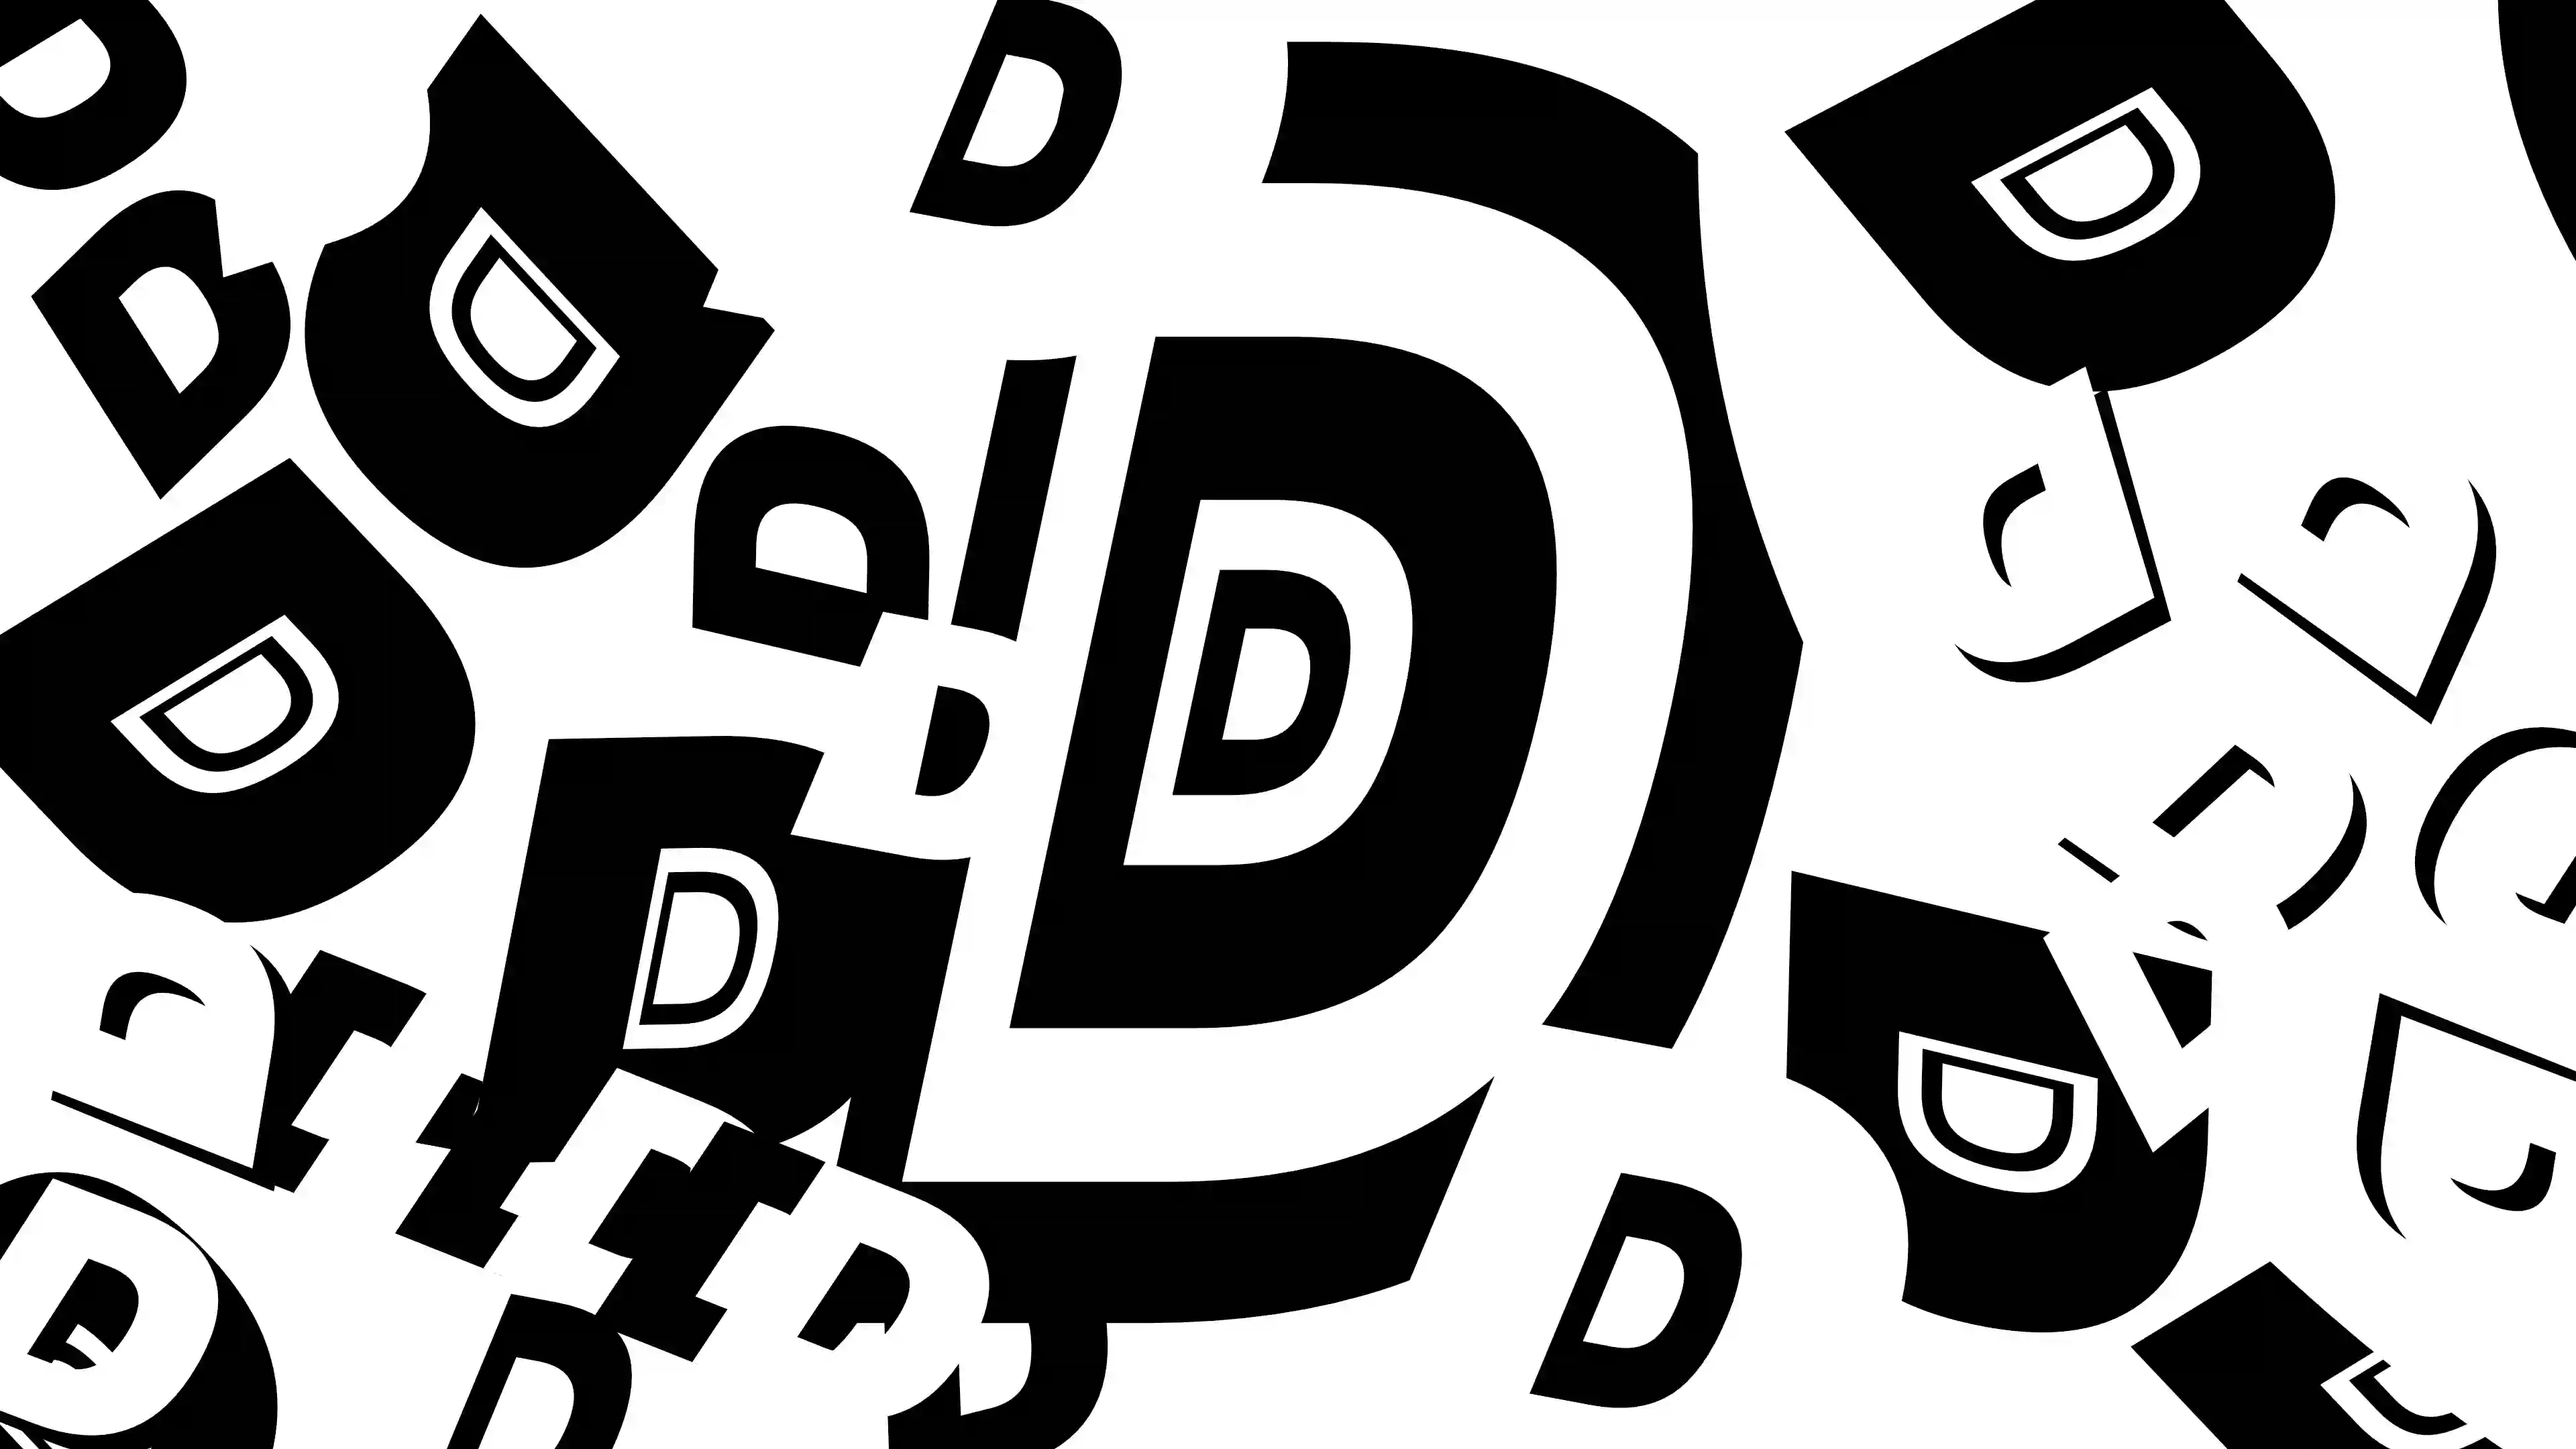
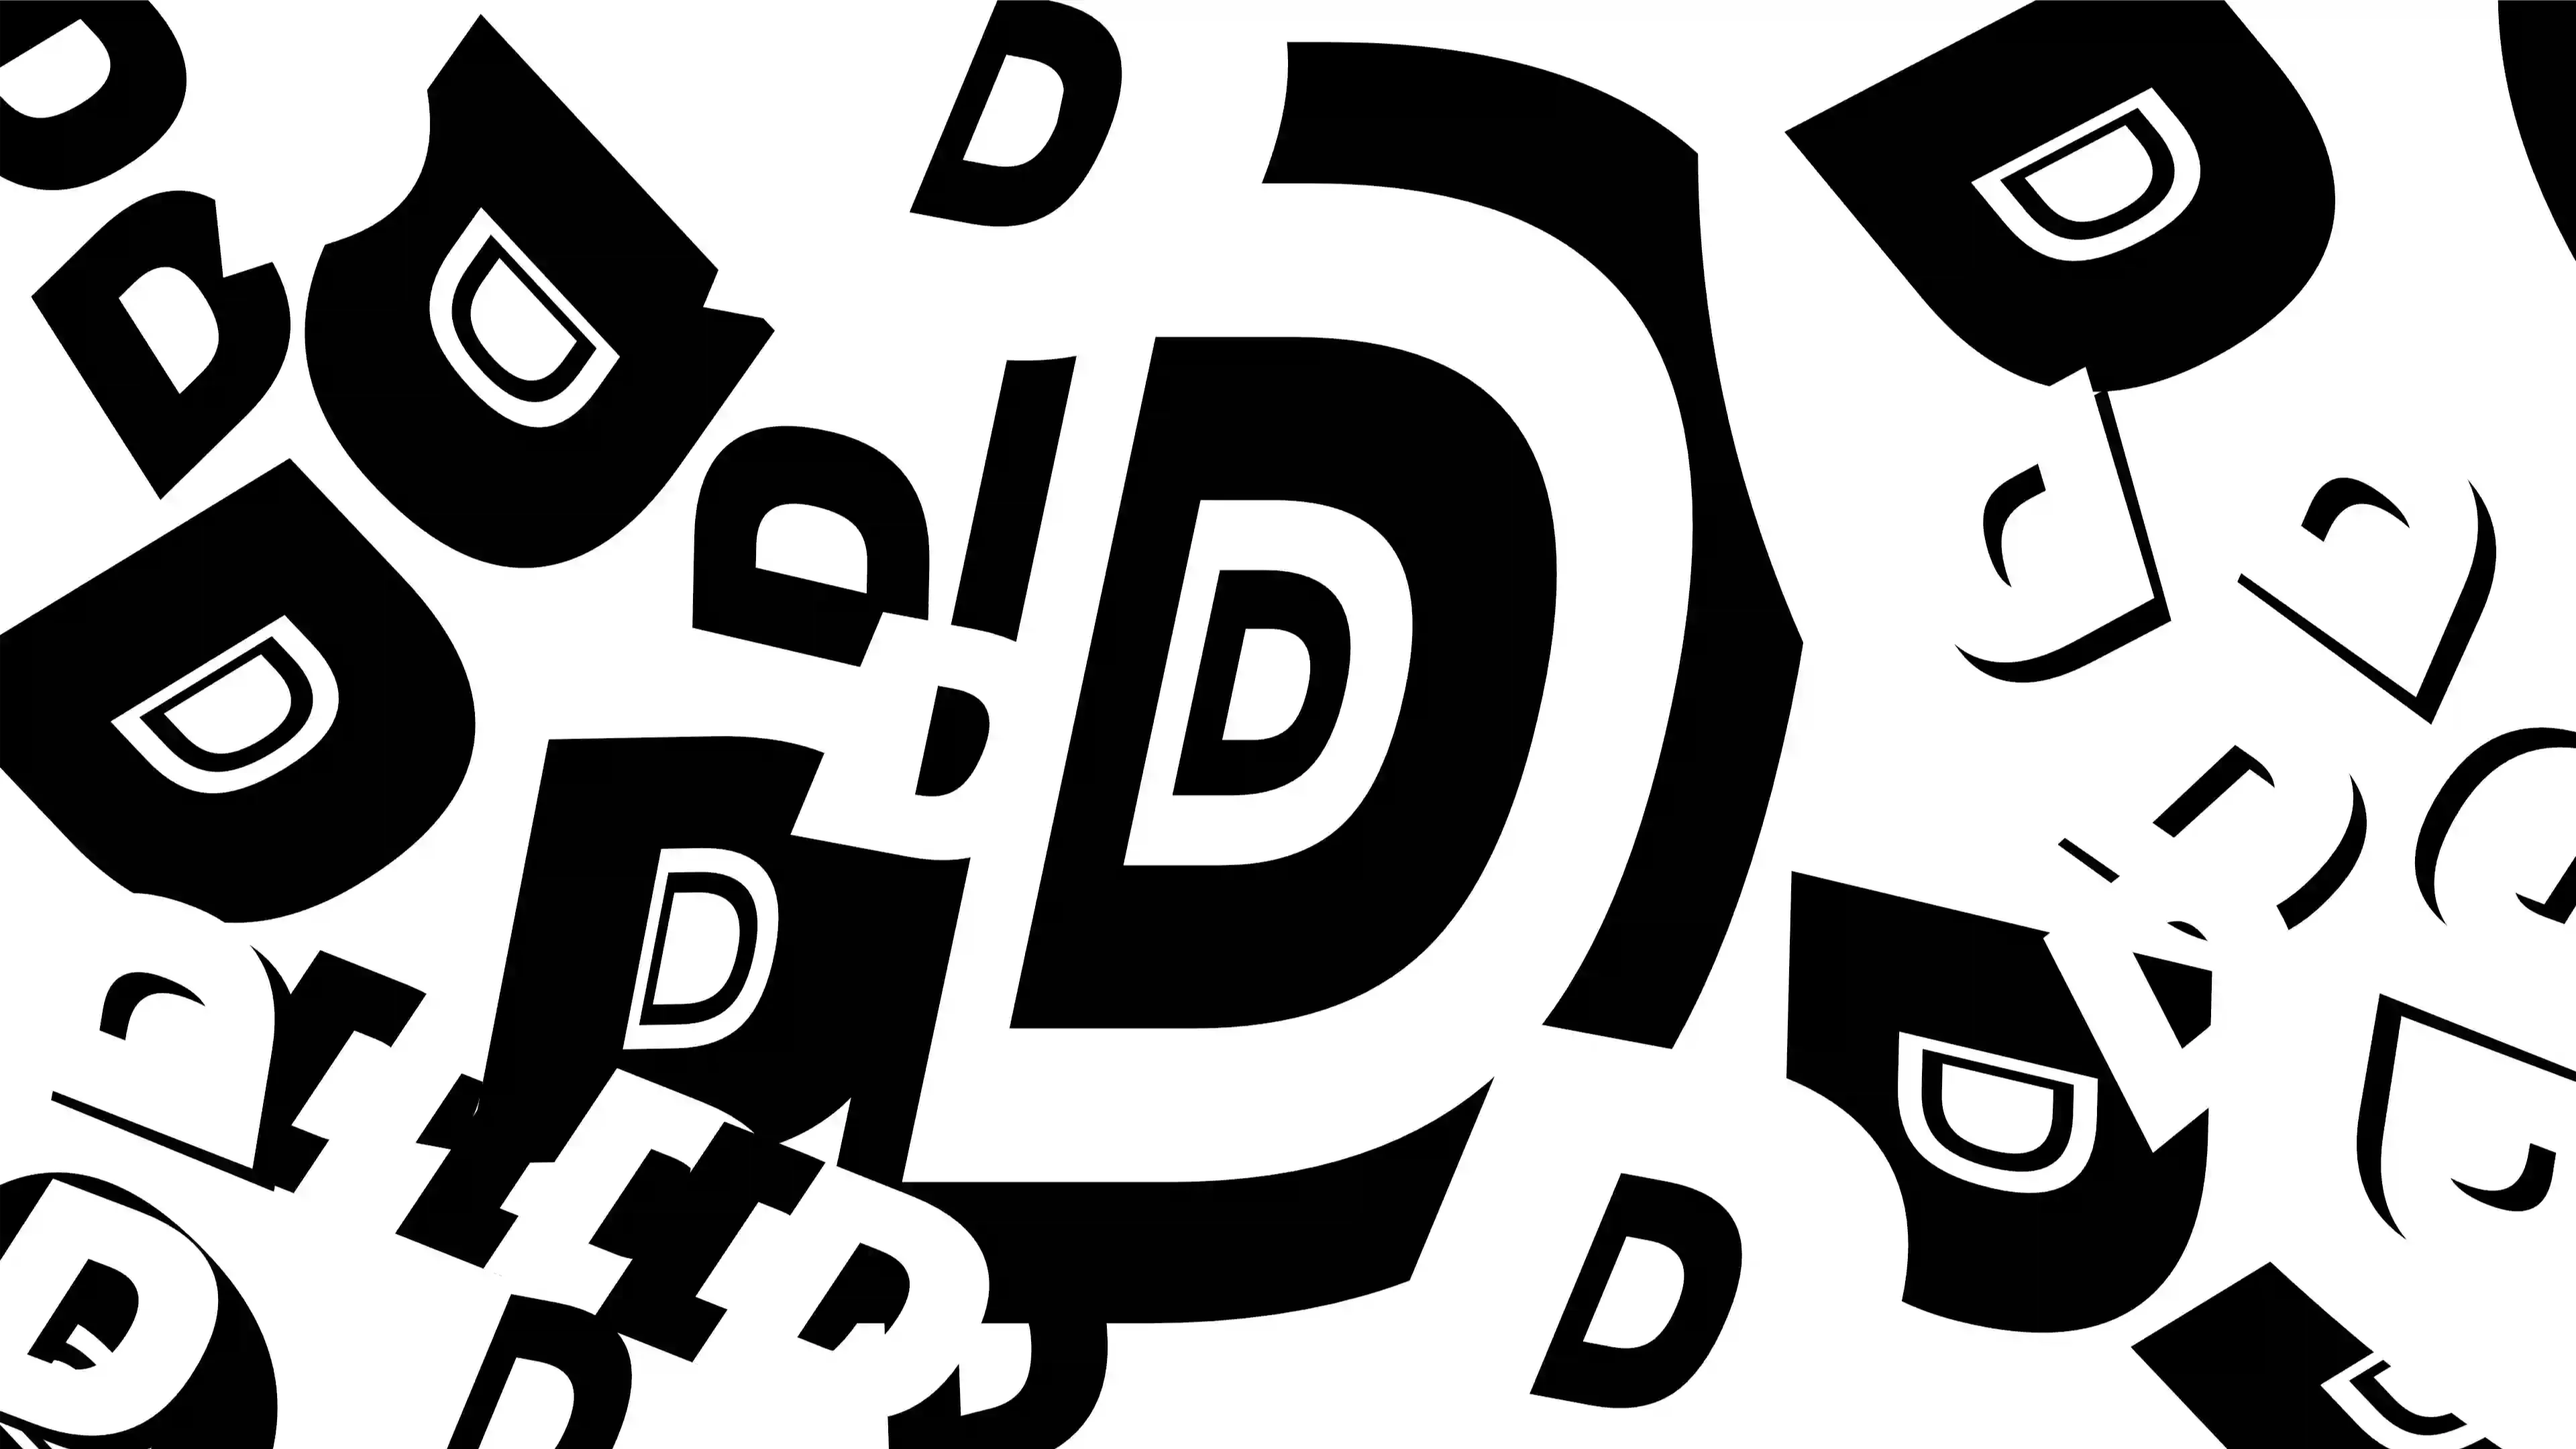
Load lower quality background image

diff --git a/apps/d0rich.me/components/homepage/IntroSection/index.vue b/apps/d0rich.me/components/homepage/IntroSection/index.vue
@@ -73,13 +73,31 @@ import { ProseCode, Icon } from '#components'
   width: 35%;
   min-width: 16rem;
   inset: 0;
-  background-image: url('~/assets/img/bg/d-bw.webp');
+  background-image: url('~/assets/img/bg/d-bw@0.1x.webp');
   background-size: cover;
   background-position: center;
   clip-path: polygon(0 0, calc(100% - 2rem) 0, 100% 100%, 0 100%);
 }
 .intro-text {
   @apply text-3xl;
+}
+
+@media screen and (min-width: 321px) {
+  .intro-bw-section {
+    background-image: url('~/assets/img/bg/d-bw@0.25x.webp');
+  }
+}
+
+@media screen and (min-width: 641px) {
+  .intro-bw-section {
+    background-image: url('~/assets/img/bg/d-bw@0.5x.webp');
+  }
+}
+
+@media screen and (min-width: 1081px) {
+  .intro-bw-section {
+    background-image: url('~/assets/img/bg/d-bw.webp');
+  }
 }
 
 @media screen and (max-width: 640px) {

diff --git a/packages/d0xigen/components/d/layout/TableOfContents/Index.vue b/packages/d0xigen/components/d/layout/TableOfContents/Index.vue
@@ -35,8 +35,26 @@ const headersToHighlight = useTocObserver(root as Ref<HTMLElement>)
 
 <style scoped>
 .background-container {
-  background-image: url(../../../../assets/img/d-bw.webp);
+  background-image: url('~/assets/img/d-bw@0.1x.webp');
   @apply h-full relative px-4 pt-20 pb-10 isolate
          bg-cover bg-center;
+}
+
+@media screen and (min-width: 321px) {
+  .background-container {
+    background-image: url('~/assets/img/bg/d-bw@0.25x.webp');
+  }
+}
+
+@media screen and (min-width: 641px) {
+  .background-container {
+    background-image: url('~/assets/img/bg/d-bw@0.5x.webp');
+  }
+}
+
+@media screen and (min-width: 1081px) {
+  .background-container {
+    background-image: url('~/assets/img/bg/d-bw.webp');
+  }
 }
 </style>

diff --git a/.changeset/wicked-zebras-do.md b/.changeset/wicked-zebras-do.md
@@ -1,0 +1,5 @@
+---
+'d0xigen': minor
+---
+
+Dynamic ToC background image quality
